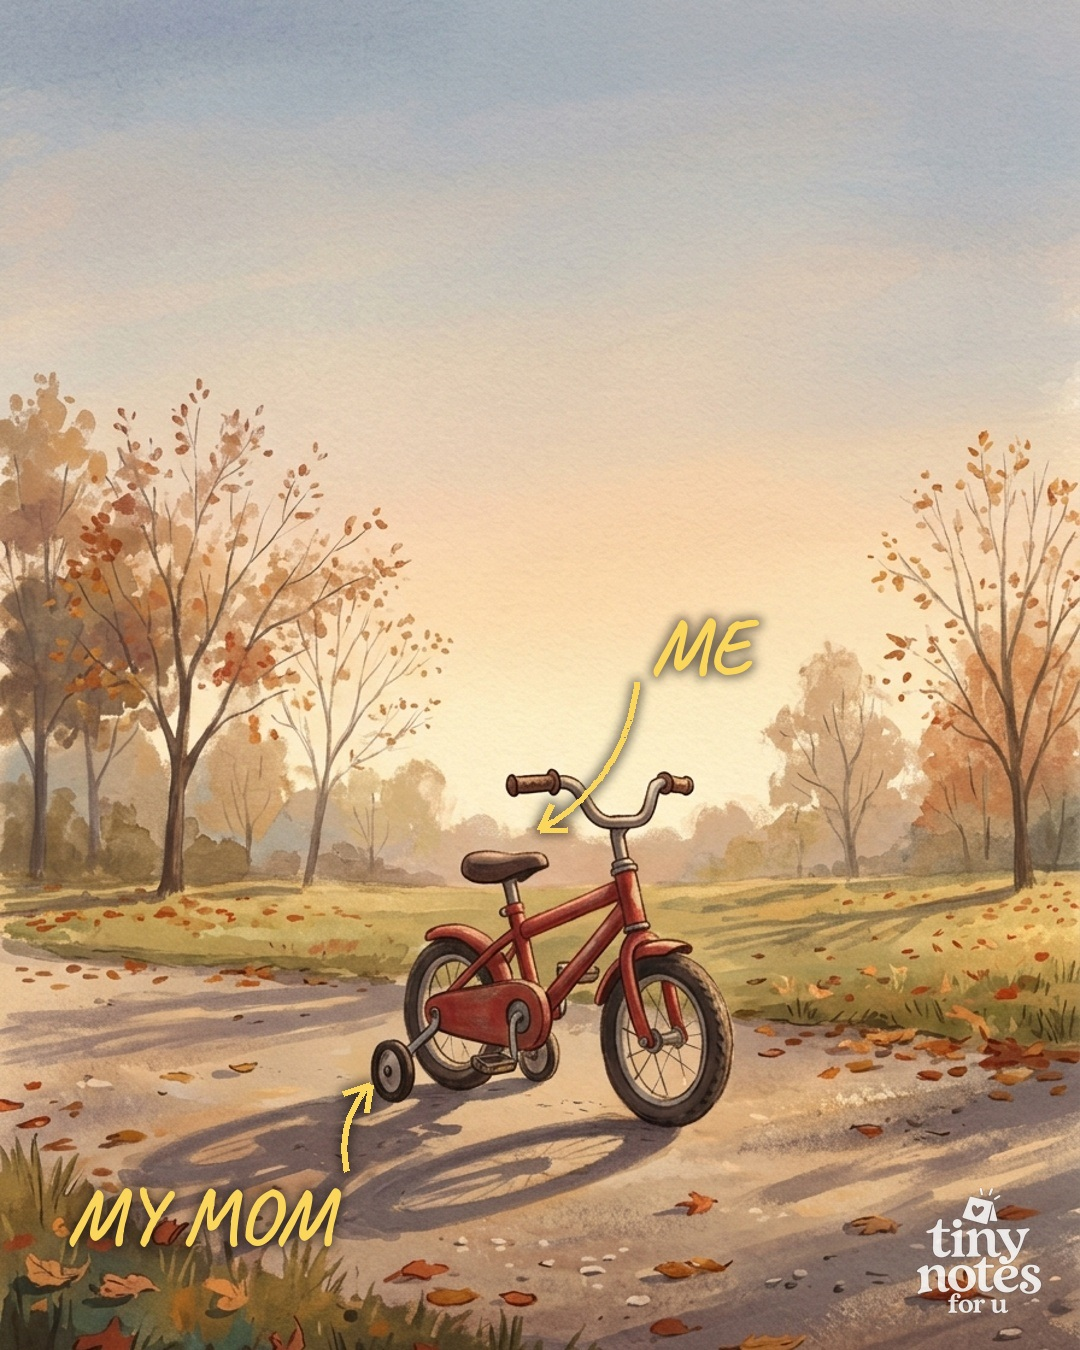
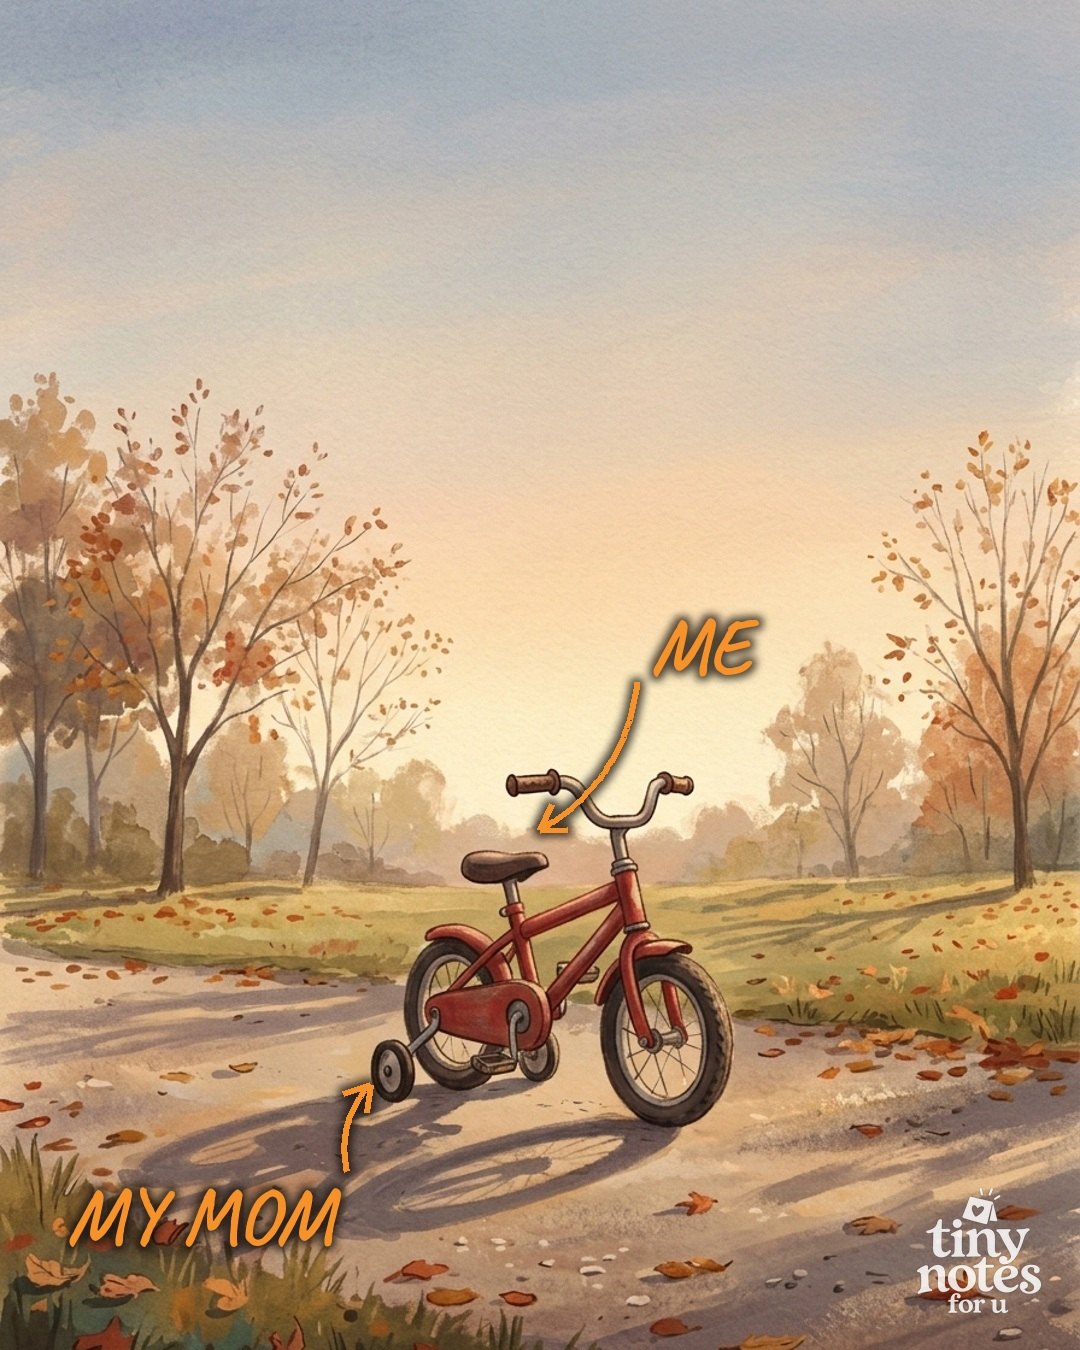
TinyNotes 'explained' series: mom (orange labels), dad, sibling, best friend carousels
Claude-Session: https://claude.ai/code/session_01LBBft9hRJo6oPCZvV1KFYf

Changed region(s): [[0.0611, 0.7778, 0.3667, 0.9333], [0.4889, 0.4356, 0.7028, 0.6222]]

diff --git a/tools/design/label_slide.py b/tools/design/label_slide.py
@@ -11,7 +11,7 @@ from PIL import Image, ImageDraw, ImageFilter, ImageFont
 
 ROOT = Path(__file__).resolve().parents[2]
 W, H = 1080, 1350
-YELLOW = (250, 214, 92)
+YELLOW = (247, 146, 40)  # warm orange: reads on light and dark art
 
 
 def font(size, wght=700):
@@ -23,8 +23,31 @@ def font(size, wght=700):
     return f
 
 
+def _trim(im):
+    """Cut away a plain paper border some generations come with."""
+    import numpy as np
+    a = np.asarray(im.convert("L")).astype(int)
+    h, w = a.shape
+    def edge(line):
+        return line.mean() > 225 and line.std() < 18
+    t = 0
+    while t < h // 8 and edge(a[t]):
+        t += 1
+    b = h - 1
+    while b > h * 7 // 8 and edge(a[b]):
+        b -= 1
+    l = 0
+    while l < w // 8 and edge(a[:, l]):
+        l += 1
+    r = w - 1
+    while r > w * 7 // 8 and edge(a[:, r]):
+        r -= 1
+    pad = 12 if (t or l or b < h - 1 or r < w - 1) else 0
+    return im.crop((l + pad, t + pad, r - pad, b - pad)) if pad else im
+
+
 def fit(src):
-    im = Image.open(src).convert("RGB")
+    im = _trim(Image.open(src).convert("RGB"))
     s = max(W / im.width, H / im.height)
     im = im.resize((round(im.width * s), round(im.height * s)), Image.LANCZOS)
     x, y = (im.width - W) // 2, (im.height - H) // 2
@@ -37,7 +60,7 @@ def _shadowed(base, draw_fn):
     draw_fn(ImageDraw.Draw(layer))
     alpha = layer.split()[3]
     halo = Image.new("RGBA", base.size, (20, 14, 10, 0))
-    halo.putalpha(alpha.filter(ImageFilter.MaxFilter(7)).filter(ImageFilter.GaussianBlur(5)).point(lambda v: int(v * 0.55)))
+    halo.putalpha(alpha.filter(ImageFilter.MaxFilter(9)).filter(ImageFilter.GaussianBlur(4)).point(lambda v: int(v * 0.75)))
     base.alpha_composite(halo)
     base.alpha_composite(layer)
 
@@ -85,7 +108,7 @@ def label_slide(src, out, labels, brand="tinynotes", size=78):
     im.convert("RGB").save(out, quality=94)
 
 
-def title_slide(src, out, lines, y=150, brand="tinynotes", size=104, color=(255, 255, 255)):
+def title_slide(src, out, lines, y=150, brand="tinynotes", size=104, color=YELLOW):
     im = fit(src).convert("RGBA")
     f = font(size)
 
